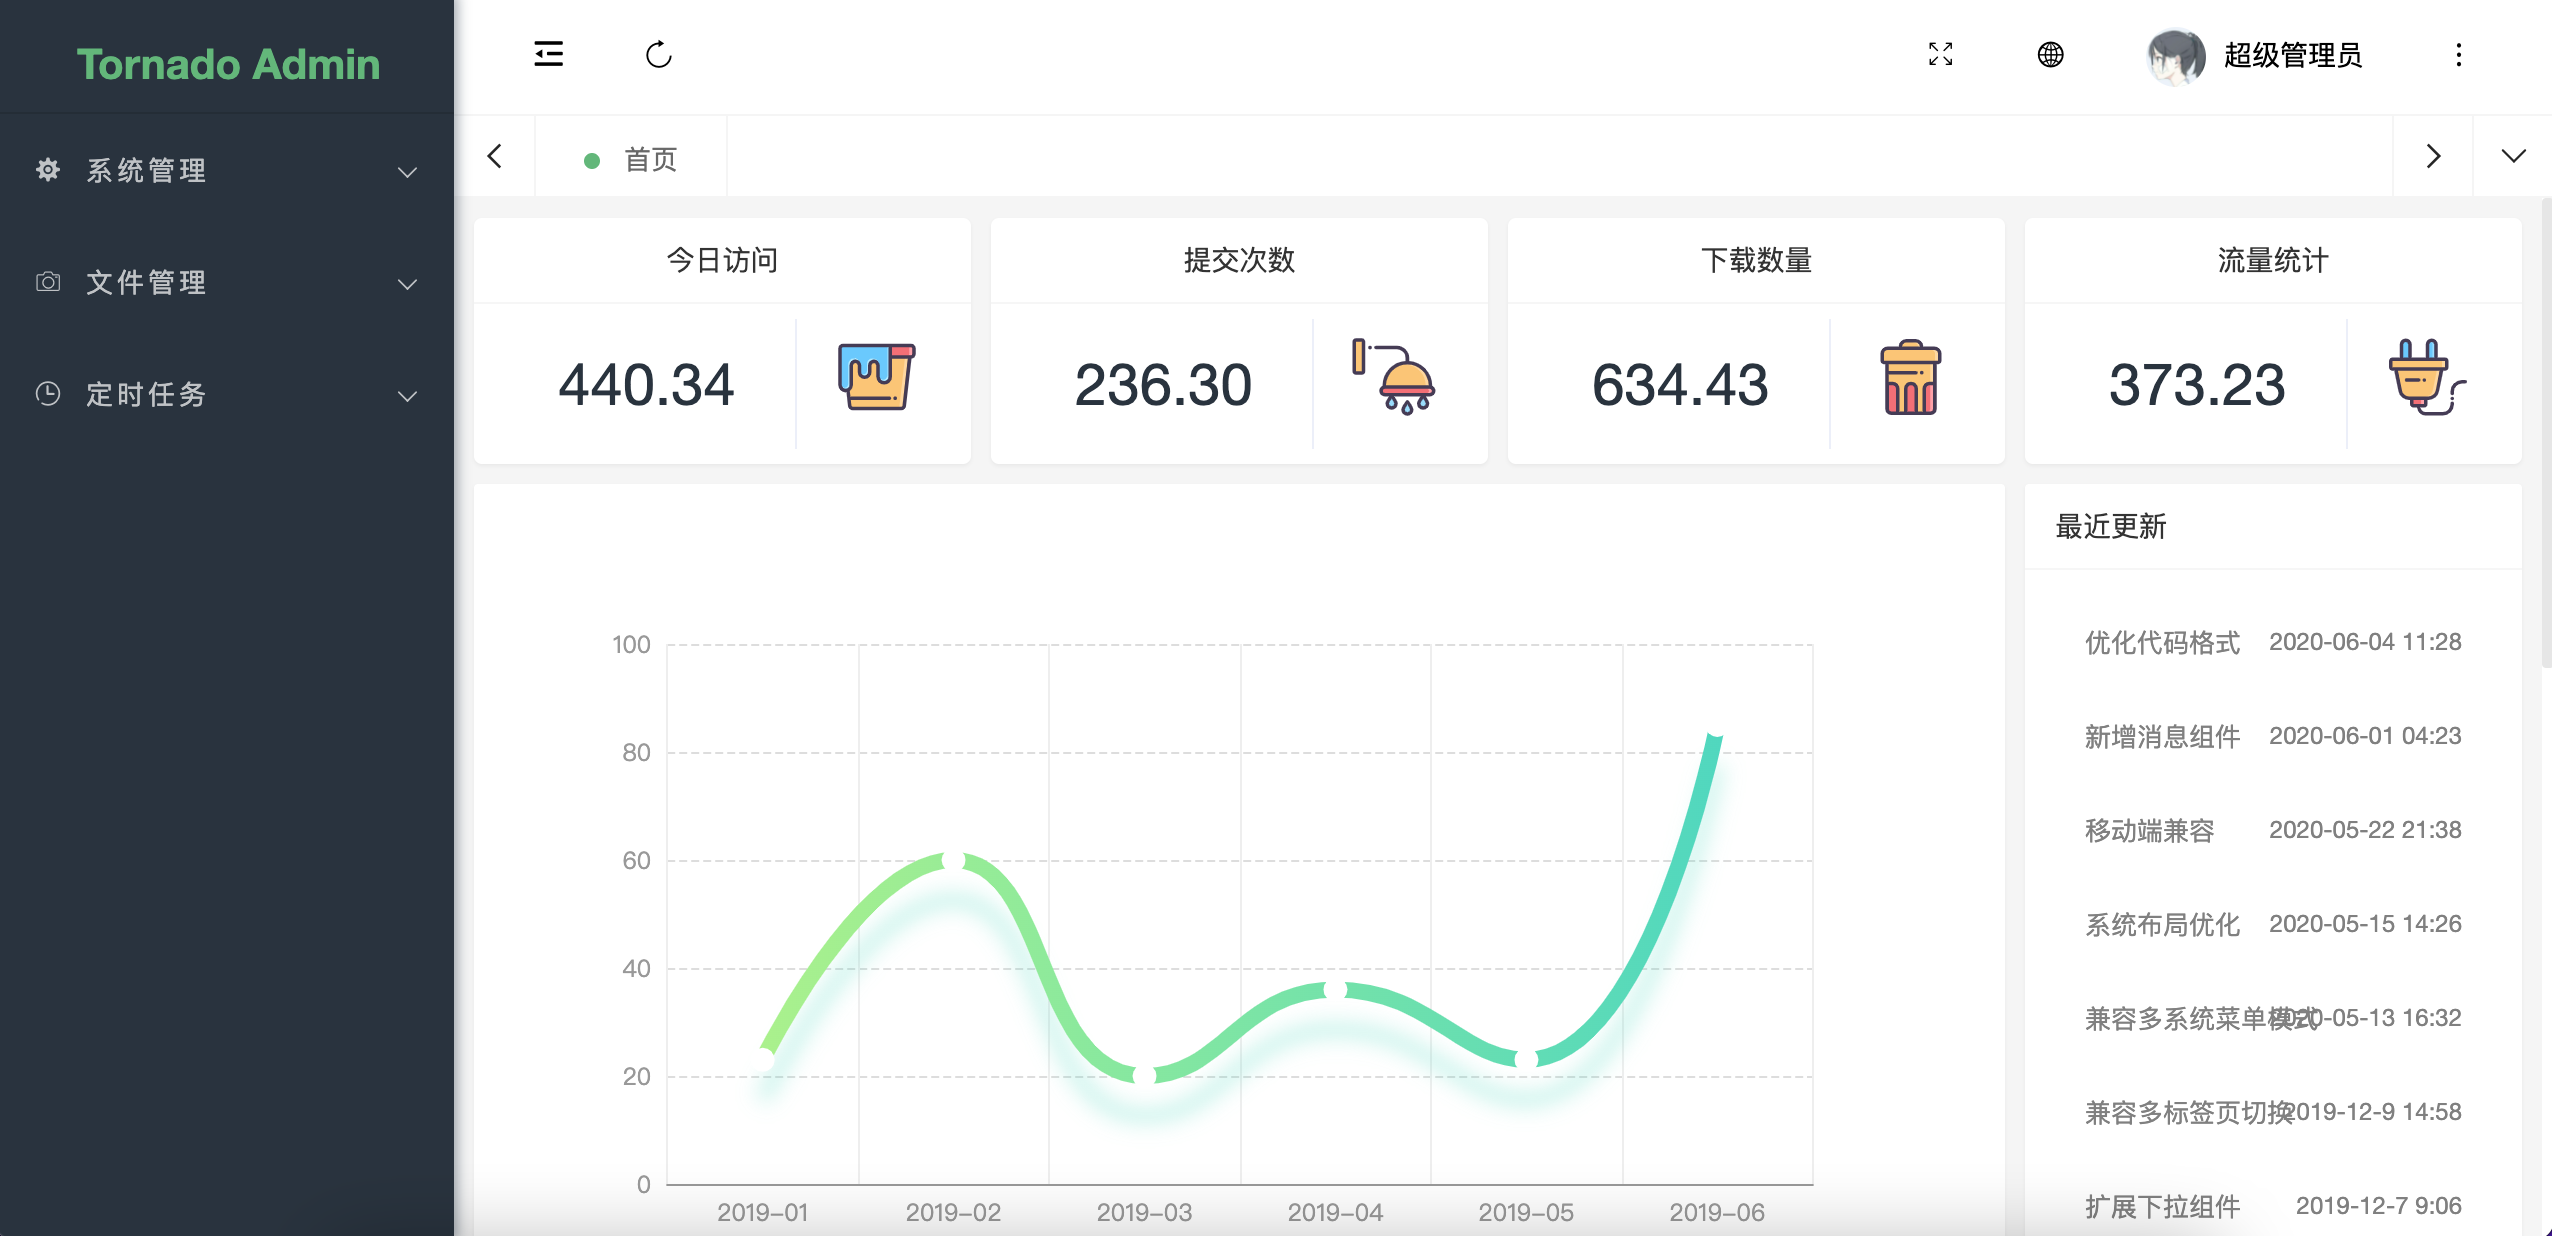
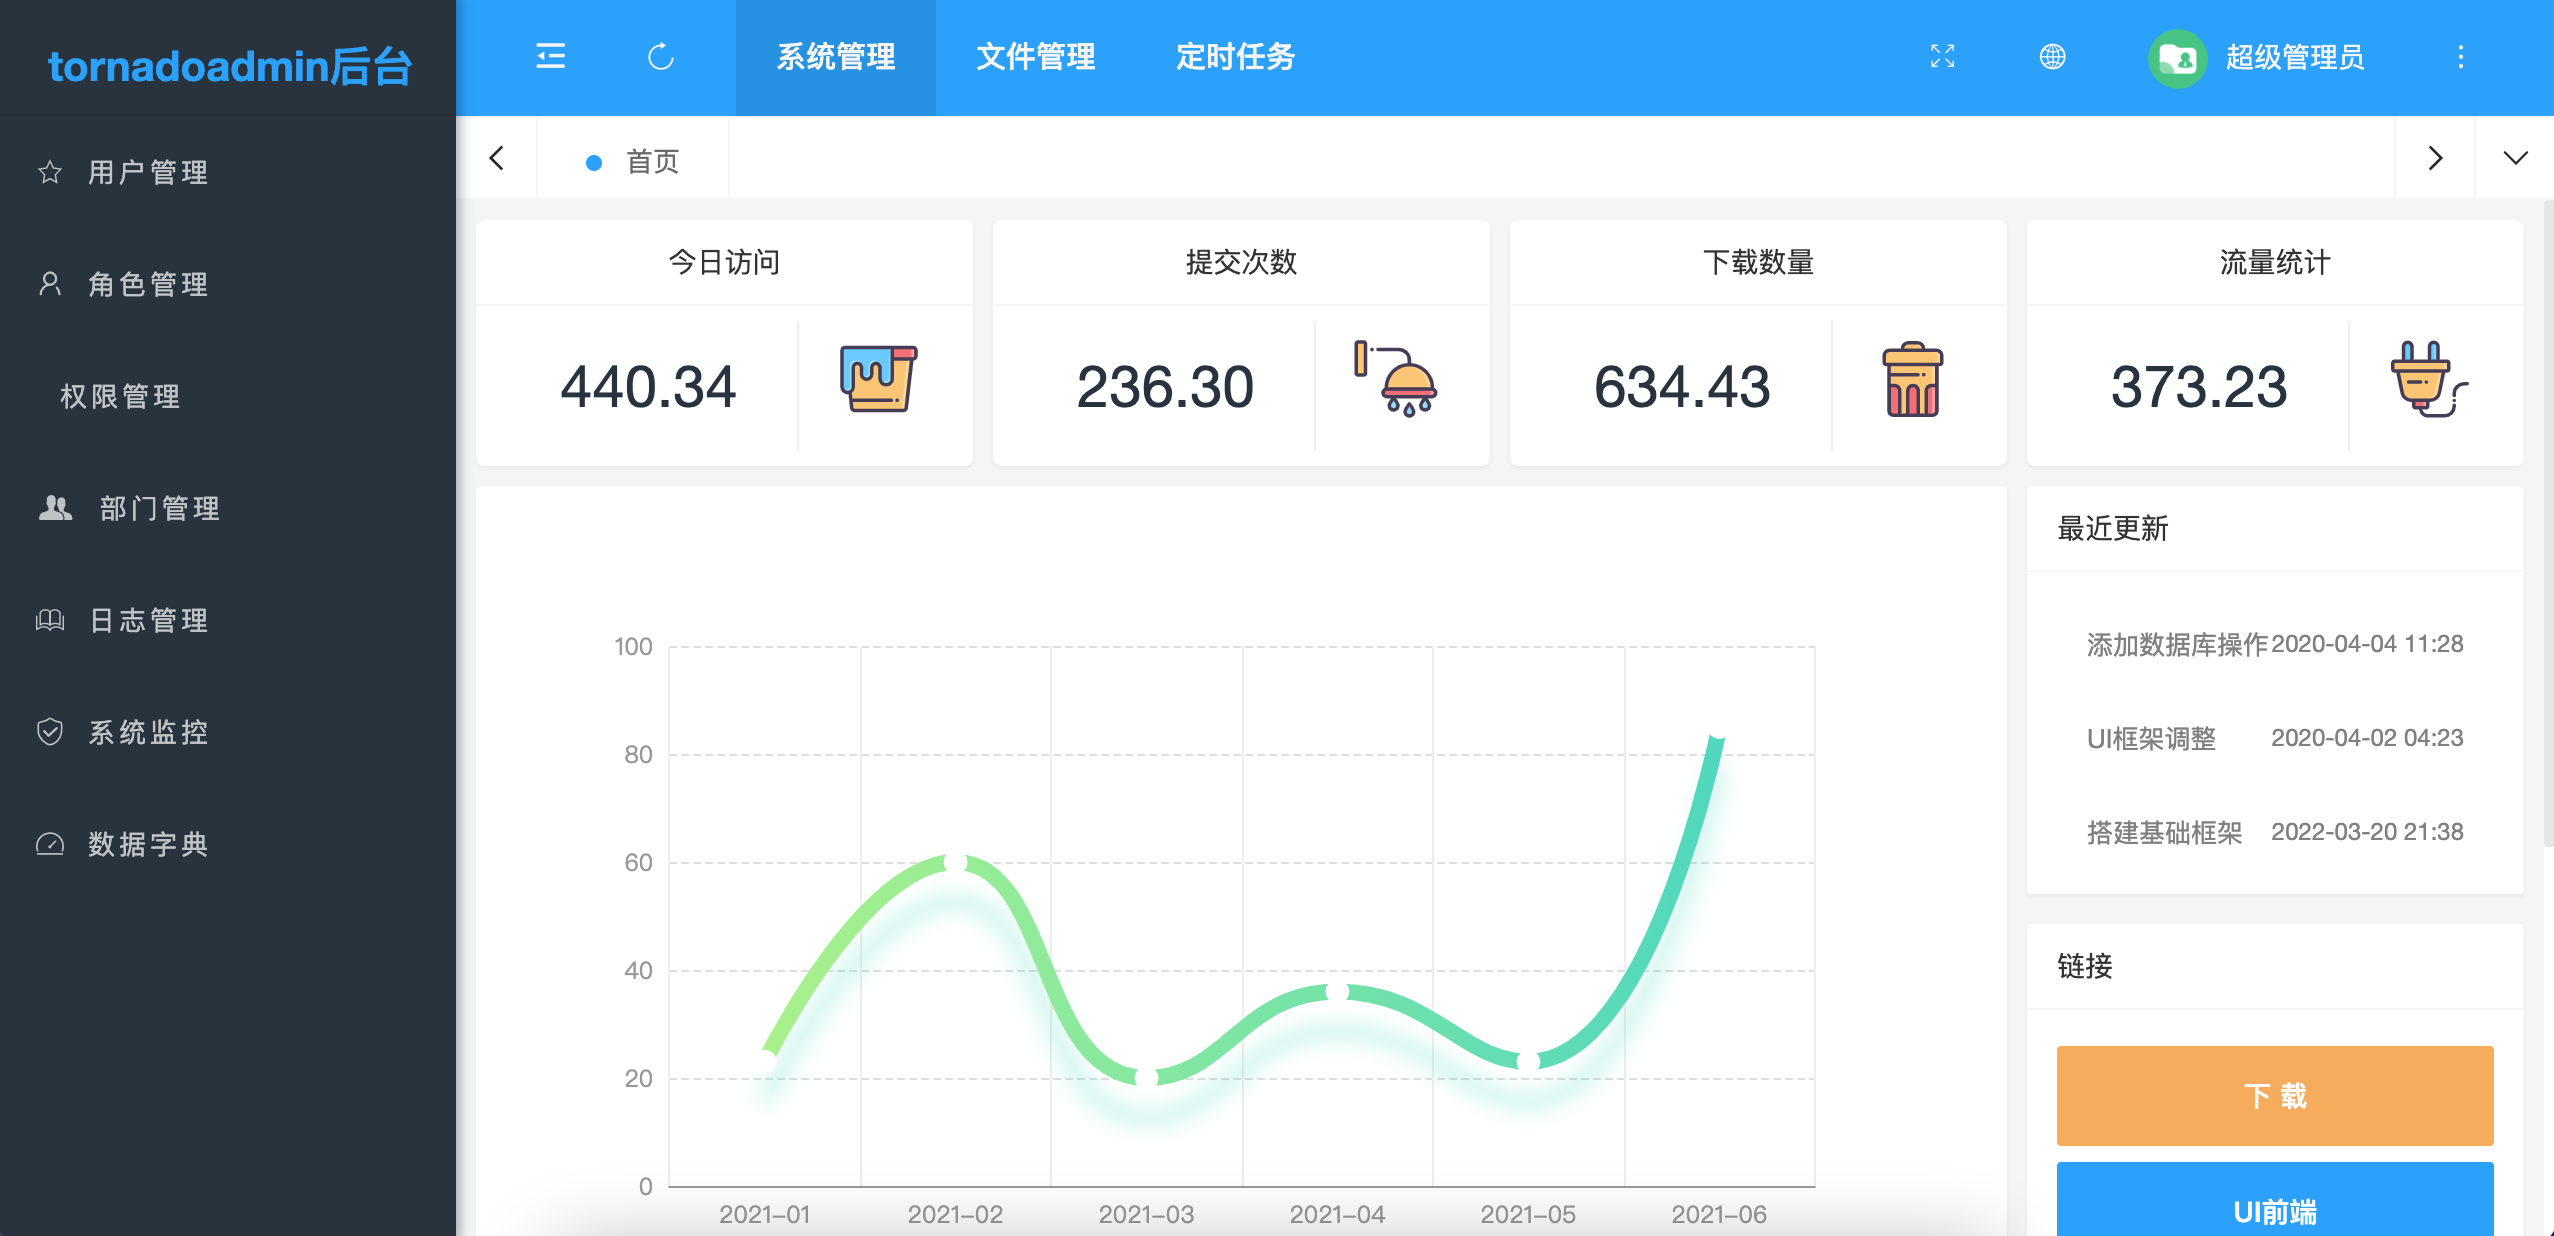
add srceen image

diff --git a/README.md b/README.md
@@ -10,7 +10,7 @@
 </div>
 
 <div align="center">
-  <img  width="100%" style="border-radius:10px;margin-top:20px;margin-bottom:20px;box-shadow: 2px 0 6px gray;" src="docs/screen/screen10.png" />
+  <img  width="100%" style="border-radius:10px;margin-top:20px;margin-bottom:20px;box-shadow: 2px 0 6px gray;" src="docs/screen/screen4.png" />
 </div>
 
 #### 项目简介
@@ -181,12 +181,10 @@ python app.py gen_crud admin_project
 #### 预览项目
 
 <div align="center">
+  <img  width="100%" style="border-radius:10px;margin-top:20px;margin-bottom:20px;box-shadow: 2px 0 6px gray;" src="docs/screen/screen1.png" />
   <img  width="100%" style="border-radius:10px;margin-top:20px;margin-bottom:20px;box-shadow: 2px 0 6px gray;" src="docs/screen/screen2.png" />
   <img  width="100%" style="border-radius:10px;margin-top:20px;margin-bottom:20px;box-shadow: 2px 0 6px gray;" src="docs/screen/screen3.png" />
   <img  width="100%" style="border-radius:10px;margin-top:20px;margin-bottom:20px;box-shadow: 2px 0 6px gray;" src="docs/screen/screen4.png" />
-  <img  width="100%" style="border-radius:10px;margin-top:20px;margin-bottom:20px;box-shadow: 2px 0 6px gray;" src="docs/screen/screen10.png" />
-  <img  width="100%" style="border-radius:10px;margin-top:20px;margin-bottom:20px;box-shadow: 2px 0 6px gray;" src="docs/screen/screen12.png" />
-  <img  width="100%" style="border-radius:10px;margin-top:20px;margin-bottom:20px;box-shadow: 2px 0 6px gray;" src="docs/screen/screen15.png" />
 </div>
 
 ```shell
